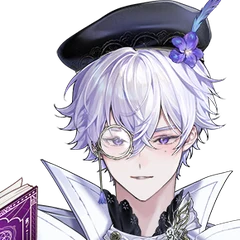
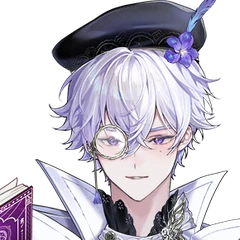
VinXIII face: centre
Claude-Session: https://claude.ai/code/session_0182ETGqkY6VZC2ACV9rE9Mb

diff --git a/index.html b/index.html
@@ -974,7 +974,7 @@ var TALENTS = [
   { id:'riona', halves:['talent-riona-half.webp?v=3','talent-riona-2-half.webp?v=5'], card:'talent-riona-half.webp?v=3', img:'talent-riona.webp', face:'talent-riona-face.webp?v=10', forms:['talent-riona.webp','talent-riona-2.webp'],  name:'Riona', short:'Riona', ini:'RN', type:'VTuber', aff:{name:'Polygon', logo:'logos/polygon-mark.png'}, langs:['th','en'], color:'#FFE7C7', tags:['#Singing','#FreeTalk','#Gaming','#RolePlay'], works:['promo','review','cover','collab','dub'], links:[['YouTube',16208,'https://www.youtube.com/@RionaPLG'],['TikTok',4081,'https://www.tiktok.com/@rionaplg'],['Facebook',10980,'https://www.facebook.com/RionaPolygon'],['X',4583,'https://x.com/RionaPLG']], quote:['เสือ สวย รวย และน่าน้วยก็ได้ ประธานนักเรียนรุ่นที่ 10 โรงเรียน PLG ริโอน่า สวัสดีค่ะ','A tiger: pretty, rich, and cuddly if you like. Hello, I am Riona, 10th student council president of PLG School!'] },
   { id:'anya', halves:['talent-anya-half.webp?v=3','talent-anya-2-half.webp?v=5'], card:'talent-anya-half.webp?v=3', img:'talent-anya.webp?v=2', face:'talent-anya-face.webp?v=10', forms:['talent-anya.webp?v=2','talent-anya-2.webp'],  name:'Anya', short:'Anya', ini:'AY', type:'VTuber', aff:{name:'Polygon', logo:'logos/polygon-mark.png'}, langs:['th'], color:'#DCEFE3', tags:['#Singing','#FreeTalk','#Gaming','#HandCam'], works:['promo','review','cover','collab','dub'], links:[['YouTube',19635,'https://www.youtube.com/@AnyaPLG'],['TikTok',8095,'https://www.tiktok.com/@anyaplg'],['Facebook',7139,'https://www.facebook.com/AnyaPolygon'],['X',4071,'https://x.com/AnyaPLG']], quote:['ลึกแต่ไม่ลับ คับแต่ไม่แคบ ไม่ใช่แค่ช้าง แต่เป็นแมมมอธ แฮ่ !','Deep but no secrets, packed but never cramped. Not just an elephant, a mammoth. Rawr!'] },
   { id:'monace', halves:['talent-monace-half.webp?v=4'], card:'talent-monace-half.webp?v=4', img:'talent-monace.webp', face:'talent-monace-face.webp?v=9',  name:'Monace', short:'Monace', ini:'MN', type:'VTuber', aff:{name:'Polygon', logo:'logos/polygon-mark.png'}, langs:['th','en'], color:'#D9E4F5', tags:['#Singing','#FreeTalk','#Gaming','#SongComposer'], works:['promo','review','cover','collab','dub'], links:[['YouTube',2608,'https://www.youtube.com/@MONACEPLG'],['TikTok',1735,'https://www.tiktok.com/@monaceplg'],['Facebook',558,'https://www.facebook.com/MONACEPLG'],['X',1477,'https://x.com/MONACEPLG']], quote:['แรปเปอร์ตัวตึงอาจจะดูเท่ แต่ใจดี พร้อมอยู่ข้างๆ ให้คุณรู้สึกสบายใจเสมอ โซโล โมเนซ ครับ 🪽','A rapper who may look tough but has a kind heart, always by your side to put you at ease. Solo Monace here 🪽'] },
-  { id:'vinxiii', halves:['talent-vinxiii-half.webp?v=2'], card:'talent-vinxiii-half.webp?v=2', img:'talent-vinxiii.webp', face:'talent-vinxiii-face.webp?v=10',  name:'VinXIII', short:'VinXIII', ini:'VX', type:'VTuber', aff:{name:'Polygon', logo:'logos/polygon-mark.png'}, langs:['th'], color:'#F6E7C8', tags:['#Singing','#FreeTalk','#Gaming'], works:['promo','review','cover','collab'], links:[['YouTube',1715,'https://www.youtube.com/@VinXIIIPLG'],['TikTok',1187,'https://www.tiktok.com/@vinxiiiplg'],['Facebook',139,'https://www.facebook.com/VinXIIIPLG'],['X',2175,'https://x.com/VinXIIIPLG']], quote:['ถ้าตามหาคนที่จะทำให้หัวเราะได้ วินซี่ อยู่ตรงนี้เองครับ ที่ไม่ว่าอยู่ที่ไหนก็ทำให้บรรยากาศสดใสขึ้นทันที ⚜','Looking for someone to make you laugh? Vinzy is right here, brightening the room wherever he goes ⚜'] },
+  { id:'vinxiii', halves:['talent-vinxiii-half.webp?v=2'], card:'talent-vinxiii-half.webp?v=2', img:'talent-vinxiii.webp', face:'talent-vinxiii-face.webp?v=11',  name:'VinXIII', short:'VinXIII', ini:'VX', type:'VTuber', aff:{name:'Polygon', logo:'logos/polygon-mark.png'}, langs:['th'], color:'#F6E7C8', tags:['#Singing','#FreeTalk','#Gaming'], works:['promo','review','cover','collab'], links:[['YouTube',1715,'https://www.youtube.com/@VinXIIIPLG'],['TikTok',1187,'https://www.tiktok.com/@vinxiiiplg'],['Facebook',139,'https://www.facebook.com/VinXIIIPLG'],['X',2175,'https://x.com/VinXIIIPLG']], quote:['ถ้าตามหาคนที่จะทำให้หัวเราะได้ วินซี่ อยู่ตรงนี้เองครับ ที่ไม่ว่าอยู่ที่ไหนก็ทำให้บรรยากาศสดใสขึ้นทันที ⚜','Looking for someone to make you laugh? Vinzy is right here, brightening the room wherever he goes ⚜'] },
   { id:'augustine', halves:['talent-augustine-half.webp?v=5'], card:'talent-augustine-half.webp?v=5', img:'talent-augustine.webp', face:'talent-augustine-face.webp?v=9',  name:'Augustine', short:'Augustine', ini:'AG', type:'VTuber', aff:{name:'Polygon', logo:'logos/polygon-mark.png'}, langs:['th','en'], color:'#E3F0FA', tags:['#Singing','#FreeTalk','#Gaming','#Dentist'], works:['promo','review','cover','collab'], links:[['YouTube',10500,'https://www.youtube.com/@AugustinePLG'],['TikTok',37200,'https://www.tiktok.com/@augustineplg'],['Facebook',770,'https://www.facebook.com/AugustinePLG'],['X',4178,'https://x.com/AugustinePLG']], quote:['ออกัสทีนเองครับ มีทั้งความสวย ความหล่อ และพลังบวกที่จะทำให้คุณยิ้มได้ทุกวัน อยากมาลองชิมมั้ยครับ','Augustine here: pretty, handsome and full of good vibes to make you smile every day. Care for a taste?'] },
 ];
 var ART = [
